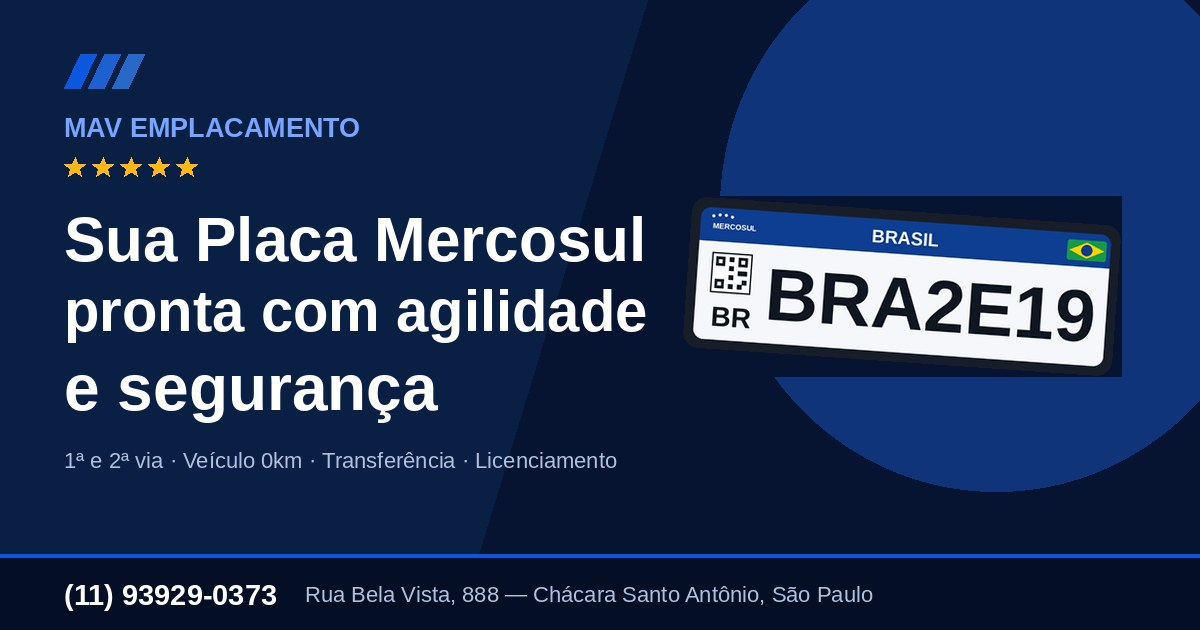
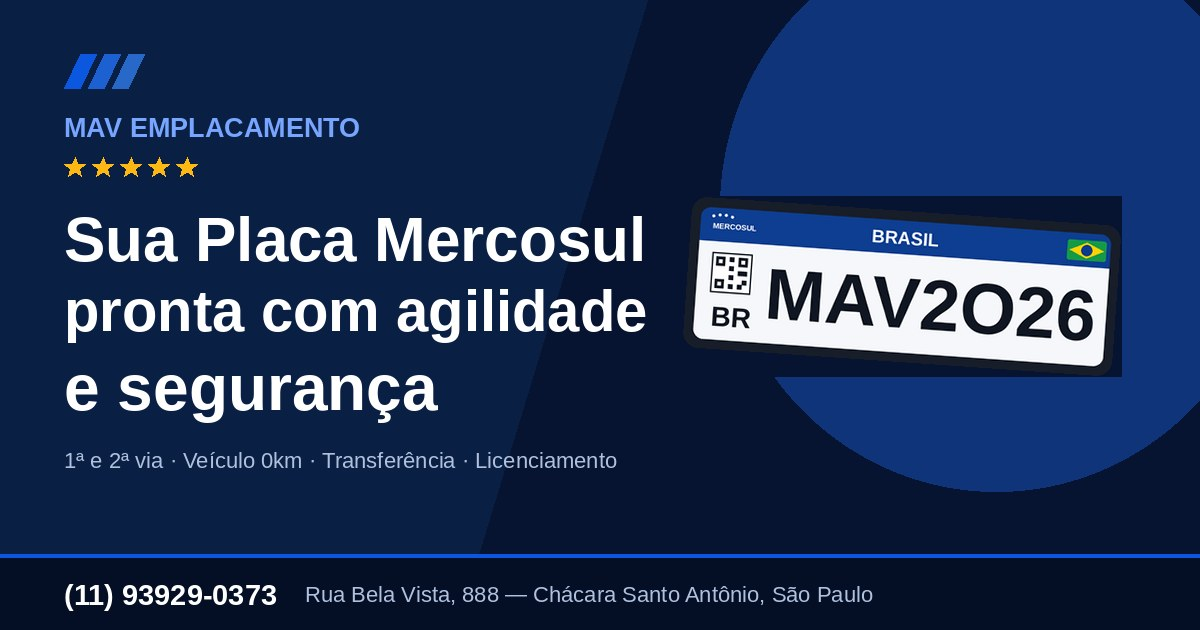
Placa MAV2O26 menor, textura de fundo e ícones da marca pelas seções
Placa
Código padrão passa a ser MAV2O26 — respeita o formato Mercosul (três letras,
número, letra, dois números; o "O" da quinta posição é letra, que é o que a
norma pede ali) e ainda assina a marca. Vale também para a imagem de
compartilhamento, regerada.

Ocupando a largura inteira do painel, a placa dominava a dobra e empurrava os
preços para fora da primeira tela — justamente o que precisa ser lido. Agora ela
divide a faixa com o selo "Padrão Mercosul", em 270px. O painel ficou mais baixo
e os dois valores sobem na tela.

Fundo
Três camadas discretas, todas desligadas em `prefers-reduced-motion`:
grade de pontos nas seções de fundo claro, halo azul no alto da página e os
ícones da marca em deriva lenta.

A textura entra por `background-image` sobre a cor de cada seção, então cada
faixa mantém o próprio tom e a alternância entre elas continua legível. O
seletor usa `~=` e não `*=`: com a correspondência parcial, um botão com
`hover:bg-site-alt` também casaria e nasceria pontilhado.

Ícones
`AnimatedIconField` ganhou três arranjos — `plates`, `fleet` e `docs` — aplicados
ao quadro de preços, aos pilares e ao contato. Repetir o mesmo desenho em toda
seção transformaria a textura em padrão reconhecível, e aí ela deixa de ser
fundo e vira enfeite. As posições continuam fixas, nunca sorteadas: o componente
roda no build e no navegador, e posições aleatórias fariam o fundo saltar quando
o React assume a página.
[…]

Changed region(s): [[0.6475, 0.4222, 0.925, 0.5429]]

diff --git a/src/components/site/hero/AnimatedIconField.tsx b/src/components/site/hero/AnimatedIconField.tsx
@@ -12,7 +12,7 @@ import {
 /**
  * Fundo de ícones da marca, com deriva e pulsação lentas.
  *
- * As posições são uma lista fixa, não `Math.random()`: o mesmo componente é
+ * As posições são listas fixas, não `Math.random()`: o mesmo componente é
  * renderizado no build (pré-renderização) e no navegador, e posições aleatórias
  * fariam o fundo "saltar" quando o React assume a página.
  *
@@ -32,25 +32,52 @@ type Spot = {
   opacity: number;
 };
 
-const SPOTS: Spot[] = [
-  { icon: Car, x: 6, y: 18, size: 46, rotate: -8, duration: 19, delay: 0, opacity: 0.1 },
-  { icon: ScanLine, x: 22, y: 72, size: 34, rotate: 6, duration: 22, delay: 2.5, opacity: 0.08 },
-  { icon: ShieldCheck, x: 38, y: 12, size: 30, rotate: 10, duration: 17, delay: 1.2, opacity: 0.07 },
-  { icon: Bike, x: 52, y: 80, size: 42, rotate: -5, duration: 21, delay: 3.4, opacity: 0.09 },
-  { icon: FileText, x: 68, y: 22, size: 28, rotate: 8, duration: 18, delay: 0.8, opacity: 0.07 },
-  { icon: KeyRound, x: 80, y: 66, size: 32, rotate: -12, duration: 20, delay: 4.1, opacity: 0.08 },
-  { icon: Truck, x: 92, y: 30, size: 38, rotate: 5, duration: 23, delay: 1.9, opacity: 0.07 },
-  { icon: ScanLine, x: 14, y: 46, size: 26, rotate: -4, duration: 16, delay: 5.2, opacity: 0.06 },
-  { icon: Car, x: 62, y: 52, size: 30, rotate: 12, duration: 24, delay: 2.1, opacity: 0.06 },
-  { icon: ShieldCheck, x: 86, y: 8, size: 24, rotate: -9, duration: 19, delay: 6, opacity: 0.06 },
-];
+/**
+ * Três arranjos diferentes. Repetir o mesmo desenho em toda seção transformaria
+ * a textura em padrão reconhecível — e aí ela para de ser fundo e vira enfeite.
+ */
+const ARRANGEMENTS: Record<"plates" | "fleet" | "docs", Spot[]> = {
+  plates: [
+    { icon: Car, x: 6, y: 18, size: 46, rotate: -8, duration: 19, delay: 0, opacity: 0.1 },
+    { icon: ScanLine, x: 22, y: 72, size: 34, rotate: 6, duration: 22, delay: 2.5, opacity: 0.08 },
+    { icon: ShieldCheck, x: 38, y: 12, size: 30, rotate: 10, duration: 17, delay: 1.2, opacity: 0.07 },
+    { icon: Bike, x: 52, y: 80, size: 42, rotate: -5, duration: 21, delay: 3.4, opacity: 0.09 },
+    { icon: FileText, x: 68, y: 22, size: 28, rotate: 8, duration: 18, delay: 0.8, opacity: 0.07 },
+    { icon: KeyRound, x: 80, y: 66, size: 32, rotate: -12, duration: 20, delay: 4.1, opacity: 0.08 },
+    { icon: Truck, x: 92, y: 30, size: 38, rotate: 5, duration: 23, delay: 1.9, opacity: 0.07 },
+    { icon: ScanLine, x: 14, y: 46, size: 26, rotate: -4, duration: 16, delay: 5.2, opacity: 0.06 },
+    { icon: Car, x: 62, y: 52, size: 30, rotate: 12, duration: 24, delay: 2.1, opacity: 0.06 },
+    { icon: ShieldCheck, x: 86, y: 8, size: 24, rotate: -9, duration: 19, delay: 6, opacity: 0.06 },
+  ],
+  fleet: [
+    { icon: Truck, x: 9, y: 62, size: 52, rotate: 6, duration: 23, delay: 1.4, opacity: 0.09 },
+    { icon: Car, x: 26, y: 20, size: 38, rotate: -10, duration: 18, delay: 3.1, opacity: 0.08 },
+    { icon: Bike, x: 41, y: 74, size: 34, rotate: 8, duration: 21, delay: 0.5, opacity: 0.08 },
+    { icon: Car, x: 58, y: 30, size: 44, rotate: 4, duration: 25, delay: 4.6, opacity: 0.07 },
+    { icon: KeyRound, x: 72, y: 78, size: 28, rotate: -6, duration: 17, delay: 2.2, opacity: 0.07 },
+    { icon: Truck, x: 88, y: 24, size: 36, rotate: -9, duration: 22, delay: 5.4, opacity: 0.07 },
+    { icon: Bike, x: 95, y: 62, size: 30, rotate: 11, duration: 19, delay: 1.1, opacity: 0.06 },
+    { icon: ShieldCheck, x: 18, y: 88, size: 26, rotate: -3, duration: 20, delay: 6.2, opacity: 0.06 },
+  ],
+  docs: [
+    { icon: FileText, x: 12, y: 26, size: 40, rotate: 7, duration: 20, delay: 2.8, opacity: 0.08 },
+    { icon: ScanLine, x: 30, y: 68, size: 36, rotate: -8, duration: 24, delay: 0.9, opacity: 0.08 },
+    { icon: Car, x: 47, y: 16, size: 42, rotate: 5, duration: 18, delay: 4.2, opacity: 0.07 },
+    { icon: KeyRound, x: 63, y: 70, size: 30, rotate: -11, duration: 22, delay: 1.7, opacity: 0.08 },
+    { icon: Bike, x: 78, y: 32, size: 38, rotate: 9, duration: 19, delay: 5.8, opacity: 0.07 },
+    { icon: FileText, x: 90, y: 76, size: 26, rotate: -5, duration: 23, delay: 3.3, opacity: 0.06 },
+    { icon: Truck, x: 36, y: 44, size: 28, rotate: 10, duration: 21, delay: 6.5, opacity: 0.06 },
+  ],
+};
 
 export const AnimatedIconField = ({
   className = "",
   tone = "white",
+  variant = "plates",
 }: {
   className?: string;
   tone?: "white" | "ink";
+  variant?: keyof typeof ARRANGEMENTS;
 }) => (
   <div
     aria-hidden="true"
@@ -58,7 +85,7 @@ export const AnimatedIconField = ({
       tone === "white" ? "text-white" : "text-site-ink"
     } ${className}`}
   >
-    {SPOTS.map((spot, index) => {
+    {ARRANGEMENTS[variant].map((spot, index) => {
       const Icon = spot.icon;
 
       return (

diff --git a/src/index.css b/src/index.css
@@ -219,6 +219,9 @@
   --site-badge: 10 31 68; /* badge circular sólido dos ícones */
   --site-promo: 11 87 224; /* faixa de preços */
   --site-promo-deep: 8 71 184;
+  /* Textura de fundo: tom e intensidade dos pontos. */
+  --site-dot: 10 31 68;
+  --site-dot-alpha: 0.055;
 }
 
 /*
@@ -242,6 +245,9 @@ html[data-site-theme="dark"] {
   /* No escuro o azul cheio da promoção ofusca; entra a versão profunda. */
   --site-promo: 13 44 105;
   --site-promo-deep: 8 28 70;
+  /* Pontos claros sobre fundo escuro, um pouco mais presentes para não sumir. */
+  --site-dot: 190 210 245;
+  --site-dot-alpha: 0.07;
 }
 
 html[data-site="public"] {
@@ -263,6 +269,49 @@ html[data-site="public"] body {
 /* Compensa o cabeçalho fixo ao navegar pelas âncoras do menu. */
 .mav-site :is(section, footer)[id] {
   scroll-margin-top: 5.5rem;
+}
+
+/* ---------------------------------------------------------------------------
+ * Textura de fundo das seções claras.
+ *
+ * Uma grade de pontos discreta, o suficiente para o fundo deixar de ser chapado
+ * sem competir com o conteúdo. Aplicada por cima da cor de cada seção
+ * (`background-image` não substitui `background-color`), então cada faixa
+ * mantém o próprio tom e a alternância entre seções continua legível.
+ *
+ * Só nas seções de fundo claro: as faixas navy já têm as listras diagonais da
+ * marca, e somar as duas viraria ruído.
+ * ------------------------------------------------------------------------ */
+
+/*
+ * `~=` casa a classe inteira, não um pedaço dela. Com `*=`, um botão com
+ * `hover:bg-site-alt` também casaria e nasceria pontilhado.
+ */
+.mav-site :is(section, div)[class~="bg-site-bg"],
+.mav-site :is(section, div)[class~="bg-site-alt"] {
+  background-image: radial-gradient(
+    circle at 1px 1px,
+    rgb(var(--site-dot) / var(--site-dot-alpha)) 1px,
+    transparent 0
+  );
+  background-size: 26px 26px;
+}
+
+/*
+ * Halo azul no alto da página. Dá profundidade à dobra inicial sem virar o
+ * gradiente roxo/azul de template — é um brilho da própria cor da marca,
+ * desbotando rápido.
+ */
+.mav-site > main > section:first-of-type::before {
+  content: "";
+  position: absolute;
+  inset: 0;
+  pointer-events: none;
+  background: radial-gradient(
+    60rem 32rem at 20% -8rem,
+    rgb(var(--site-accent) / 0.1),
+    transparent 65%
+  );
 }
 
 /* ---------------------------------------------------------------------------

diff --git a/src/components/site/HeroSection.tsx b/src/components/site/HeroSection.tsx
@@ -7,7 +7,7 @@ import {
   fullAddress,
   whatsappLink,
 } from "@/content/site";
-import { Eyebrow, MercosulPlate, SlashMark, Stars, WhatsAppIcon } from "./brand";
+import { Eyebrow, MercosulPlate, Stars, WhatsAppIcon } from "./brand";
 import { AnimatedIconField } from "./hero/AnimatedIconField";
 import { PriceTile } from "./hero/PriceTile";
 import { useGoogleReviews } from "./useGoogleReviews";
@@ -148,8 +148,17 @@ export const HeroSection = () => {
             <AnimatedIconField />
 
             <div className="relative">
-              <div className="flex items-start justify-between gap-4">
-                <SlashMark tone="white" className="h-4 w-12 opacity-70" />
+              {/*
+                Placa e selo dividem a mesma faixa. Com a placa ocupando a
+                largura inteira, ela dominava o painel e empurrava os preços
+                para fora da primeira tela — que é justamente o que precisa
+                ser lido.
+              */}
+              <div className="flex flex-wrap items-center justify-between gap-x-5 gap-y-4">
+                <MercosulPlate
+                  className="w-full max-w-[270px] rotate-[-2.5deg] drop-shadow-[0_22px_32px_rgba(0,0,0,0.45)]"
+                  title="Placa Mercosul emitida pela MAV Emplacamento"
+                />
 
                 <div className="-rotate-3 rounded-xl border-2 border-gold/70 bg-site-card px-3.5 py-2 text-center shadow-mav-card">
                   <p className="font-display text-[0.6rem] font-bold uppercase tracking-[0.18em] text-site-accent">
@@ -164,12 +173,7 @@ export const HeroSection = () => {
                 </div>
               </div>
 
-              <MercosulPlate
-                className="mt-5 w-full rotate-[-2.5deg] drop-shadow-[0_26px_38px_rgba(0,0,0,0.45)]"
-                title="Par de placas Mercosul emitido pela MAV Emplacamento"
-              />
-
-              <div className="mt-6 flex flex-wrap items-center gap-2">
+              <div className="mt-7 flex flex-wrap items-center gap-2">
                 {["1ª via", "2ª via", "0km", "Transferência"].map((chip) => (
                   <span
                     key={chip}

diff --git a/src/components/site/ContactSection.tsx b/src/components/site/ContactSection.tsx
@@ -2,6 +2,7 @@ import { Clock, Instagram, MapPin, Phone } from "lucide-react";
 
 import { BUSINESS, fullAddress, whatsappLink } from "@/content/site";
 import { Eyebrow, IconBadge, WhatsAppIcon } from "./brand";
+import { AnimatedIconField } from "./hero/AnimatedIconField";
 
 const CONTACT_WHATSAPP_MESSAGE =
   "Olá! Quero falar com a MAV Emplacamento sobre um serviço.";
@@ -61,8 +62,10 @@ const OpeningHours = () => {
 };
 
 export const ContactSection = () => (
-  <section id="contato" className="bg-site-contrast-deep py-16 sm:py-20">
-    <div className="mx-auto grid max-w-6xl gap-10 px-5 sm:px-6 lg:grid-cols-2 lg:gap-14">
+  <section id="contato" className="relative overflow-hidden bg-site-contrast-deep py-16 sm:py-20">
+    <AnimatedIconField variant="docs" />
+
+    <div className="relative mx-auto grid max-w-6xl gap-10 px-5 sm:px-6 lg:grid-cols-2 lg:gap-14">
       <div data-reveal>
         <Eyebrow tone="white">Contato</Eyebrow>
         <h2 className="mt-4 font-display text-3xl font-extrabold leading-tight tracking-[-0.015em] text-white sm:text-4xl">

diff --git a/src/components/site/PillarsSection.tsx b/src/components/site/PillarsSection.tsx
@@ -1,5 +1,6 @@
 import { PILLARS } from "@/content/site";
 import { Eyebrow, SlashMark } from "./brand";
+import { AnimatedIconField } from "./hero/AnimatedIconField";
 import { PILLAR_ICONS } from "./icons";
 
 /**
@@ -12,6 +13,7 @@ export const PillarsSection = () => (
       aria-hidden="true"
       className="pointer-events-none absolute -left-24 top-1/2 h-80 w-80 -translate-y-1/2 rounded-full bg-mav-blue/20 blur-3xl"
     />
+    <AnimatedIconField variant="fleet" />
 
     <div className="relative mx-auto grid max-w-6xl gap-10 px-5 sm:px-6 lg:grid-cols-[0.85fr_1.15fr] lg:gap-16">
       <div data-reveal>

diff --git a/src/components/site/brand.tsx b/src/components/site/brand.tsx
@@ -101,7 +101,9 @@ export const Eyebrow = ({
  */
 
 export const MercosulPlate = ({
-  code = "BRA2E19",
+  // MAV2O26 respeita o padrão Mercosul (LLL N L NN) e ainda assina a marca:
+  // o "O" da quinta posição é letra, não zero — é o que a norma pede ali.
+  code = "MAV2O26",
   className = "",
   framed = true,
   title = "Placa Mercosul padrão brasileiro emitida pela MAV Emplacamento",

diff --git a/scripts/generate_og_image.py b/scripts/generate_og_image.py
@@ -139,7 +139,7 @@ def build_plate(width: int) -> Image.Image:
     d.text((qx + 4 * s, 148 * s), "BR", font=f_br, fill=INK)
 
     # Caracteres da placa, centrados na área útil à direita do QR
-    code = "BRA2E19"
+    code = "MAV2O26"
     area_l, area_r = 110 * s, (pw - 24 * s)
     f_code = font(BOLD_PATH, 112 * s)
     while width_of(d, code, f_code) > (area_r - area_l) and f_code.size > 40:

diff --git a/docs/SITE_PUBLICO.md b/docs/SITE_PUBLICO.md
@@ -55,6 +55,25 @@ preço, muda só ali:
 { id: "carro", price: 140, priceFrom: 179, ... }  // priceFrom: null tira o "de/por"
 ```
 
+## Fundo e efeitos
+
+Três camadas, todas desligadas para quem tem "reduzir movimento" ativado no
+sistema:
+
+- **Textura de pontos** nas seções de fundo claro (`src/index.css`, tokens
+  `--site-dot` / `--site-dot-alpha`). Vai por cima da cor de cada seção, então a
+  alternância entre faixas continua legível.
+- **Halo azul** no alto da primeira seção — profundidade sem virar gradiente de
+  template.
+- **Ícones da marca em deriva** (`hero/AnimatedIconField.tsx`): carro, moto,
+  caminhão, placa, documento e chave, entre 6% e 10% de opacidade. Três arranjos
+  (`plates`, `fleet`, `docs`) para as seções não repetirem o mesmo desenho — o
+  que transformaria a textura em padrão reconhecível.
+
+As posições são listas fixas, nunca `Math.random()`: o componente é renderizado
+no build e no navegador, e posições sorteadas fariam o fundo saltar quando o
+React assume a página.
+
 ## Domínio
 
 O canonical, o Open Graph, o JSON-LD e o sitemap usam `VITE_SITE_URL`.
